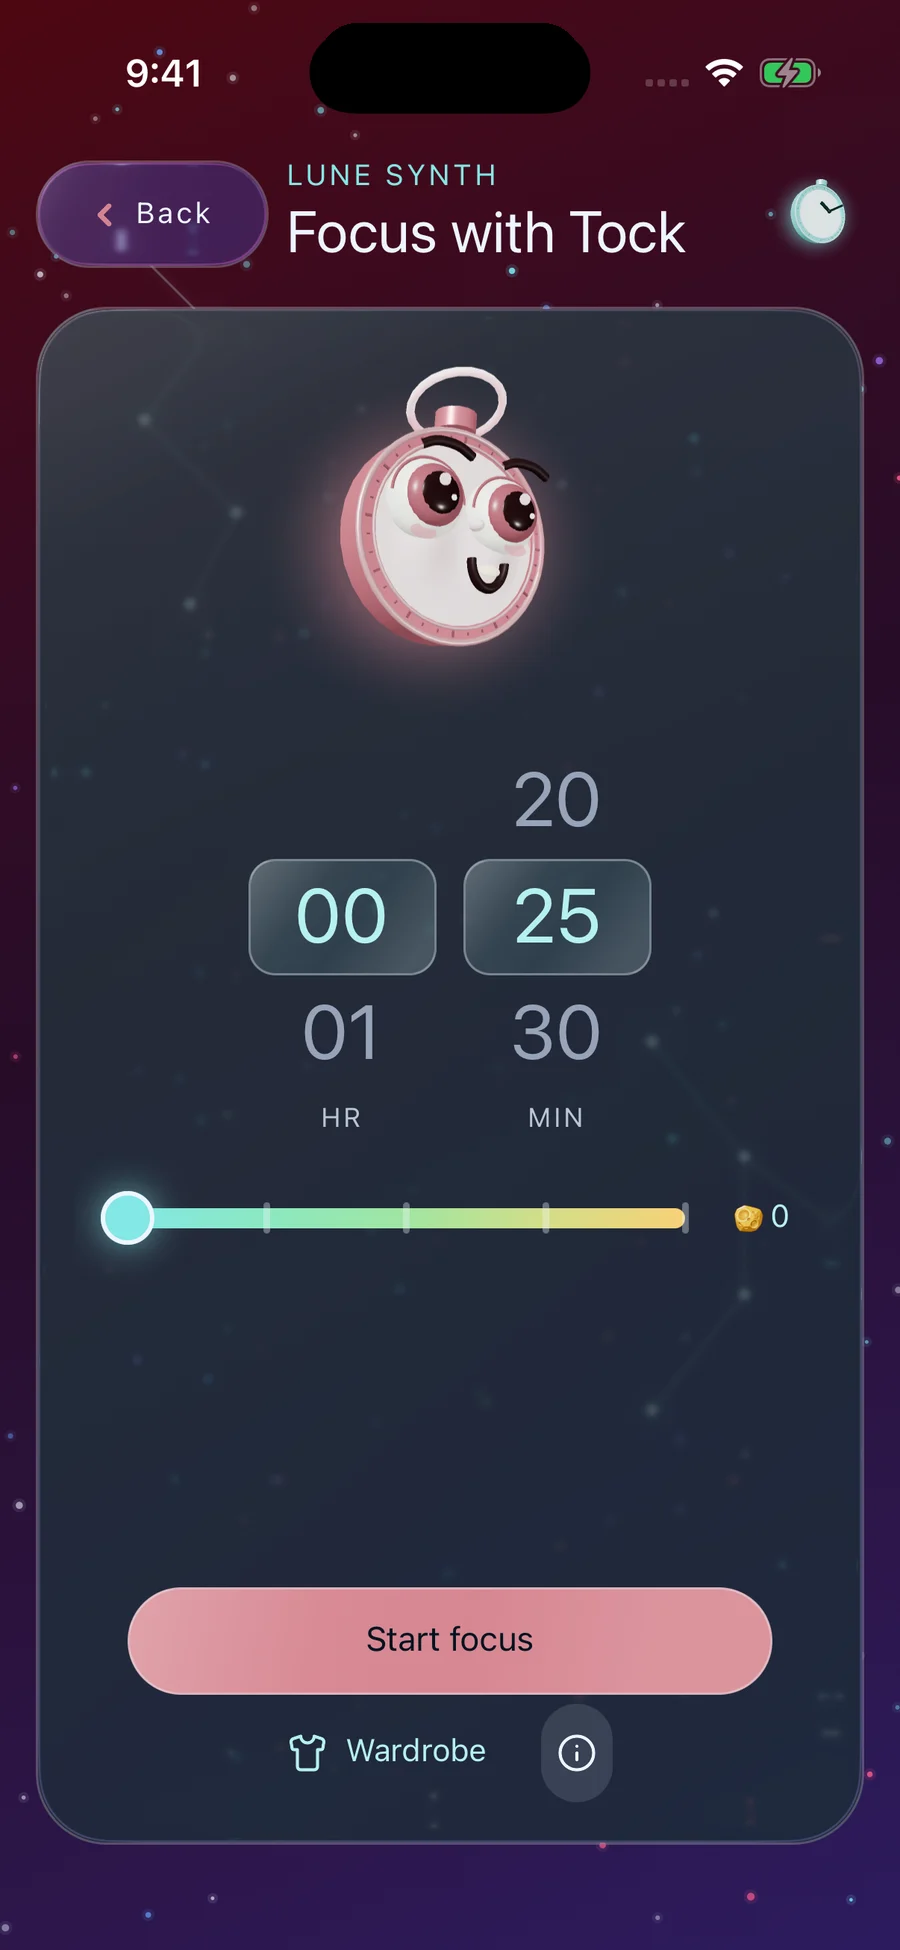
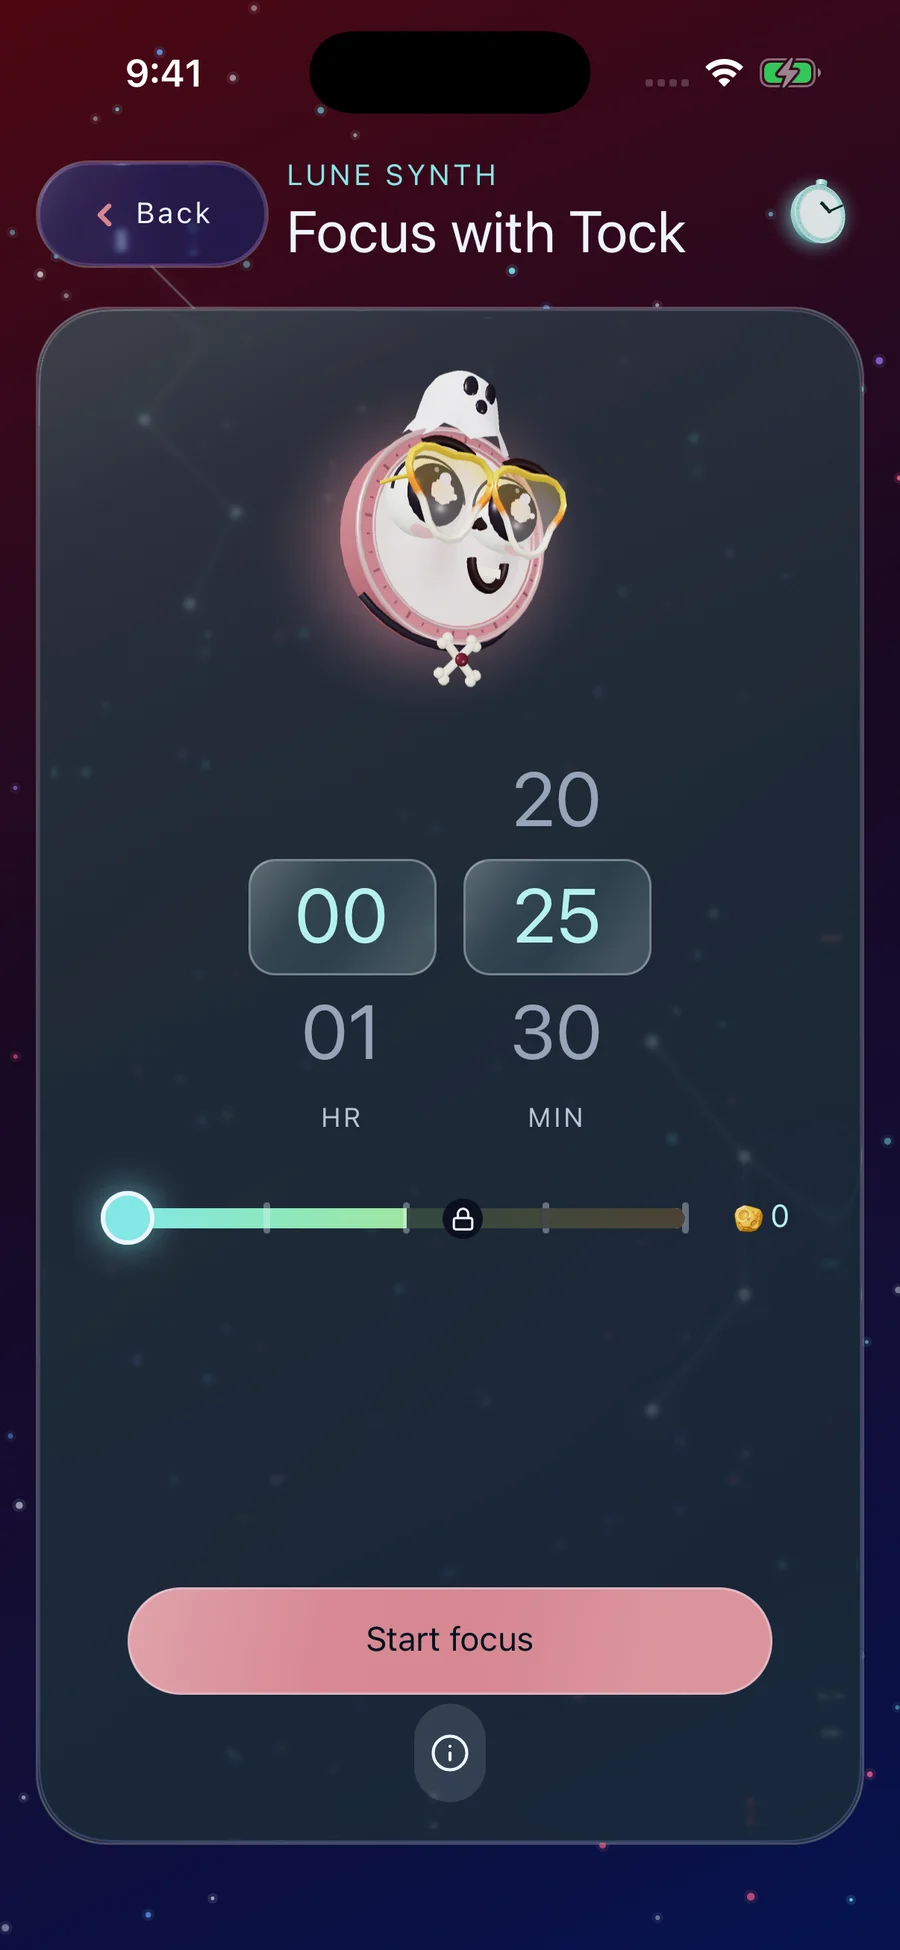
feat(lune-synth): refresh Tock screenshots in outfits with the current layout
Re-captured all four homepage Tock shots on current app main (shared
Metro, production flags): focus-setup now wears a Halloween set (ghost
sheet, candy corn glasses, bone bow), focus-extreme wears a harvest set
(leaf crown, maple glasses, diya pendant) with the risk slider pushed to
its real locked boundary, fullscreen re-captures the wizard-hat/diamond-
shades/bow-tie look now that today's blank-screen fix lands, and the
wardrobe reader re-captures the gold set. Alt text updated to match.

Contact sheet at docs/visuals/tock-outfits-2026-10-25/compare.png.

diff --git a/lune-synth/index.html b/lune-synth/index.html
@@ -14309,7 +14309,7 @@
                     <div class="phone-mock__screen">
                       <picture>
                         <source media="(min-width: 900px)" srcset="/mobile-app-assets/screenshots/applied/tock/tock-focus-setup.webp" />
-                        <img src="/mobile-app-assets/screenshots/applied/tock/tock-focus-setup-mid.webp" alt="The Lune Synth focus timer: Tock above a session-length picker and a Start focus button" width="480" height="1040" loading="lazy" decoding="async" />
+                        <img src="/mobile-app-assets/screenshots/applied/tock/tock-focus-setup-mid.webp" alt="The Lune Synth focus timer: Tock dressed as a ghost with candy corn glasses and a bone bow tie, above a session-length picker and a Start focus button" width="480" height="1040" loading="lazy" decoding="async" />
                       </picture>
                     </div>
                     <div class="phone-shell-buttons" aria-hidden="true">
@@ -14331,7 +14331,7 @@
                     <div class="phone-mock__screen">
                       <picture>
                         <source media="(min-width: 900px)" srcset="/mobile-app-assets/screenshots/applied/tock/tock-focus-extreme.webp" />
-                        <img src="/mobile-app-assets/screenshots/applied/tock/tock-focus-extreme-mid.webp" alt="The focus timer's compact risk slider pushed to Extreme stakes, with Insane still locked and Tock going extreme" width="480" height="1040" loading="lazy" decoding="async" />
+                        <img src="/mobile-app-assets/screenshots/applied/tock/tock-focus-extreme-mid.webp" alt="The focus timer's compact risk slider pushed up toward its locked Extreme tier, Tock in a harvest set with a leaf crown, maple glasses and a diya pendant, startled by the higher Moon Rock stake" width="480" height="1040" loading="lazy" decoding="async" />
                       </picture>
                     </div>
                     <div class="phone-shell-buttons" aria-hidden="true">
